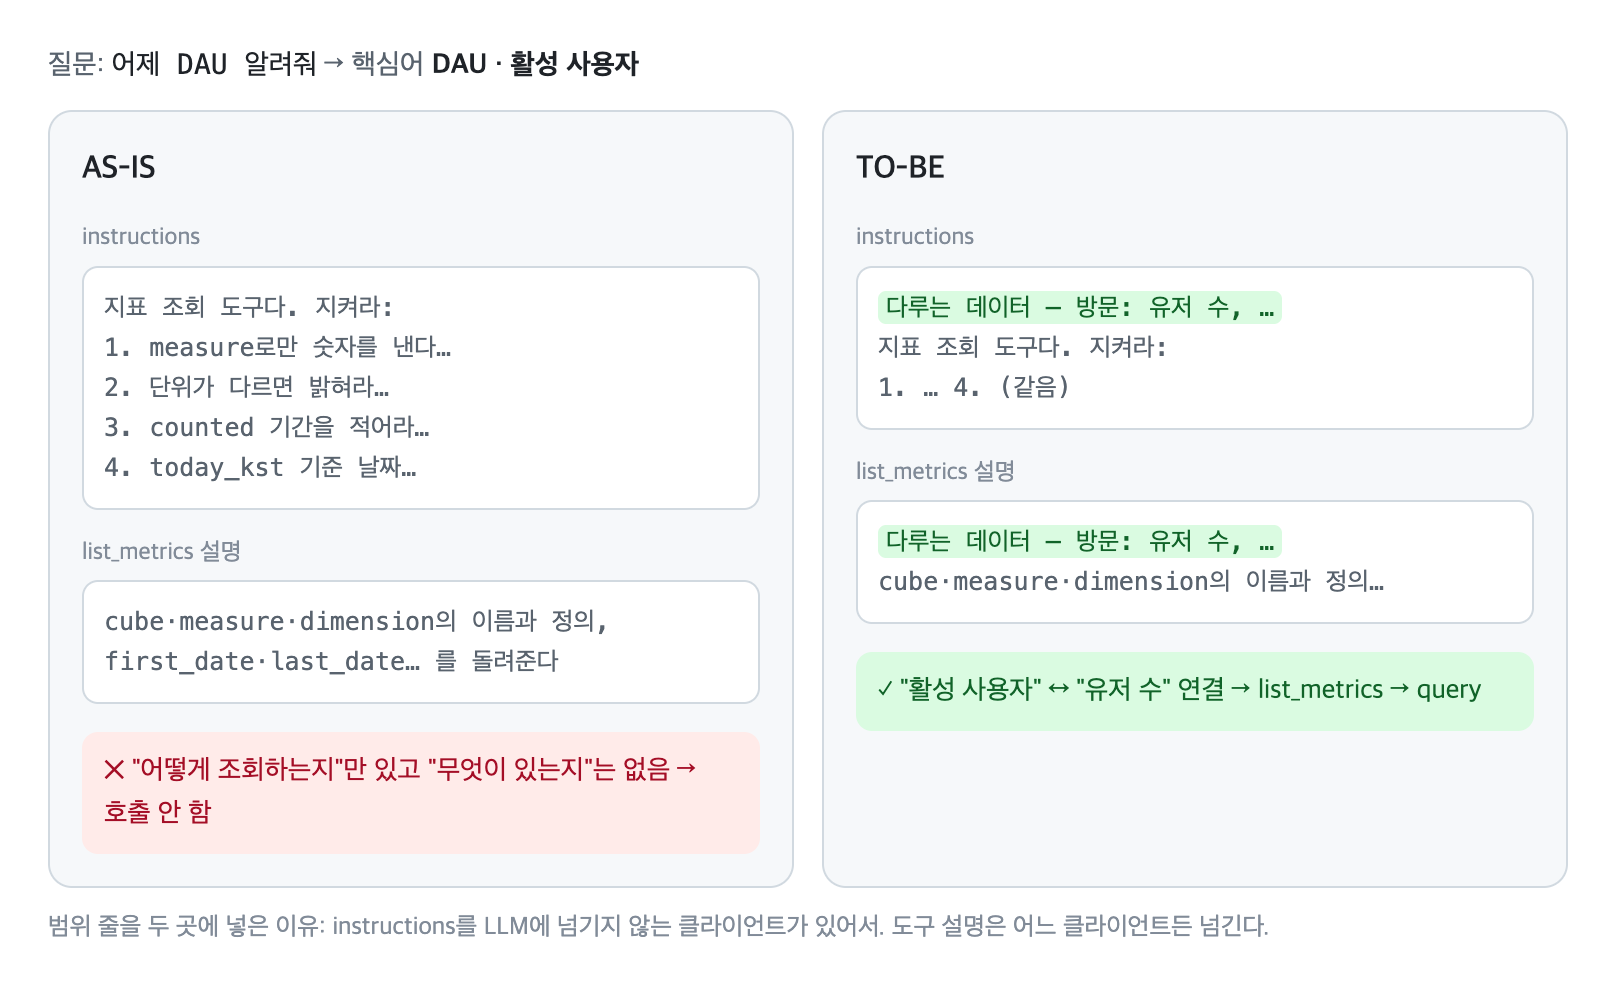
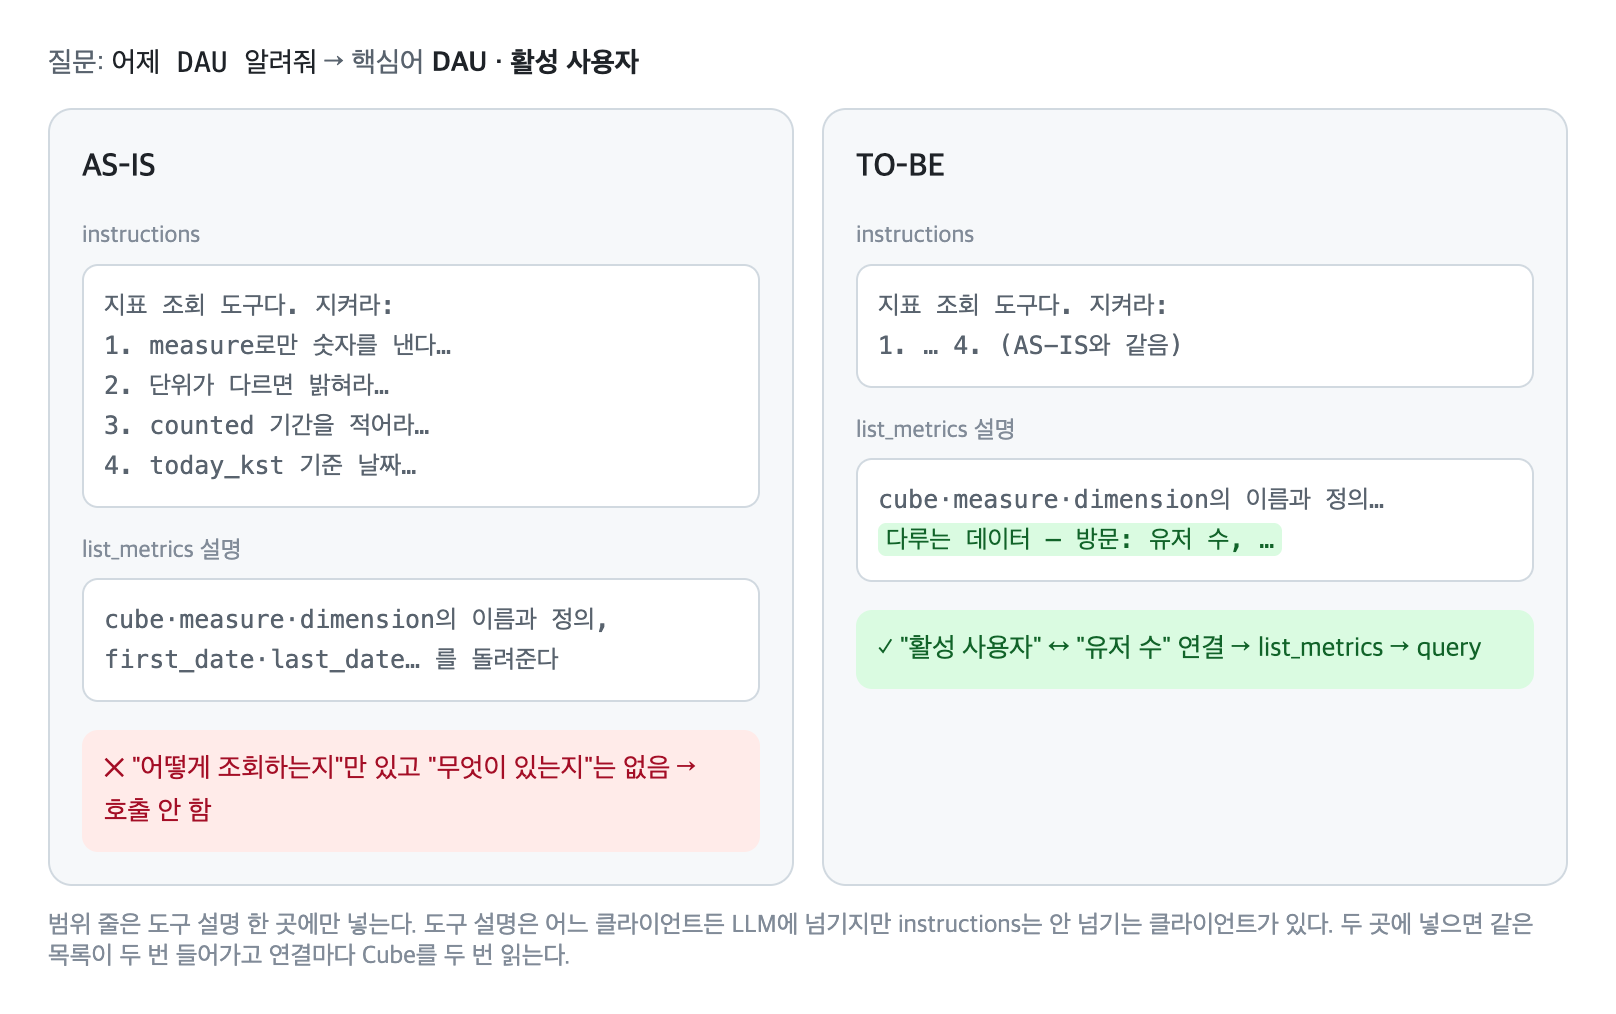
docs: 데이터 범위를 도구 설명 한 곳에만 싣도록 바뀐 설계를 반영한다

diff --git a/case-studies/2026-11-mcp-data-scope/README.md b/case-studies/2026-11-mcp-data-scope/README.md
@@ -22,7 +22,7 @@
 | 증상 | 지표를 물으면 MCP 도구를 안 부르고 데이터 소스를 되물음 |
 | 잘못 짚은 첫 대응 | 봇 쪽 지침(SOUL.md)에 조회 절차를 길게 적음 → 서버 지침과 중복, 문구가 이미 어긋남 |
 | 원인 | MCP 클라이언트는 서버의 `instructions`와 도구 `description`만 보고 호출 여부를 정함. 거기에 데이터 범위가 없었음. 지표 정의(Cube description)는 도구를 부른 **뒤에야** 읽힘 |
-| 해결 | `initialize`·`tools/list` 요청마다 서버가 Cube `/meta`를 읽어 cube·measure 제목 목록을 소개 글 앞에 붙임 |
+| 해결 | `tools/list` 요청마다 서버가 Cube `/meta`를 읽어 cube·measure 제목 목록을 `list_metrics` 설명에 붙임 |
 
 ## 설계 판단
 
@@ -30,11 +30,11 @@
 |---|---|
 | 범위를 코드에 고정하지 않고 Cube에서 자동 생성 | 손으로 적으면 지표가 추가·변경될 때마다 낡음 |
 | 지표 **이름만** 싣고 정의는 뺌 | 소개 글이 길어지고 정의가 두 곳에 생김 — 정의는 `list_metrics`에서 |
-| `instructions`와 `list_metrics` 설명 두 곳에 | `instructions`를 LLM에 넘기지 않는 클라이언트도 있음 |
+| `list_metrics` 설명 한 곳에만 | 도구 설명은 모든 클라이언트가 LLM에 넘기지만 `instructions`는 안 넘기는 클라이언트도 있음. 두 곳에 실으면 목록이 두 번 들어가고 Cube를 두 번 읽음 |
 | Cube 장애 시 범위 없이 예전 소개로 응답 | 서버 소개가 Cube 때문에 실패하면 안 됨 — 경고 로그만 남김 |
 | 봇 쪽 지침은 역할만 남김 | 모든 클라이언트가 읽는 곳(서버)에 정보를 둬야 한 곳만 고침 |
 
-**트레이드오프:** 연결마다 Cube 호출이 1회 늘고, 그 호출에 타임아웃이 없음 → Cube가 느리면 연결도 느려짐.
+**트레이드오프:** `tools/list`마다 Cube 호출이 1회 늘고, 그 호출에 타임아웃이 없음 → Cube가 느리면 도구 목록도 늦게 옴.
 
 ## 결과
 

diff --git a/2026/11/16-hermes-slack-bot-mcp-troubleshooting.md b/2026/11/16-hermes-slack-bot-mcp-troubleshooting.md
@@ -195,18 +195,18 @@ flowchart TB
 |---|---|---|
 | Cube | 어떤 지표가 있는지 앎 (cube·measure 제목) | 소장 목록 |
 | MCP 서버 | Cube에 물어 소개 글에 옮겨 적음 | 팻말 쓰는 사람 |
-| 팻말 | `instructions` + `list_metrics` 설명 | 문 앞 안내판 |
+| 팻말 | `list_metrics` 설명 | 문 앞 안내판 |
 
 ```mermaid
 sequenceDiagram
     participant H as Hermes
     participant M as MCP 서버
     participant C as Cube
-    H->>M: initialize / tools/list
+    H->>M: tools/list
     M->>C: /meta (어떤 지표 있어?)
     C-->>M: cube·measure 제목
-    Note over M: 목록 + 기존 지침 조립
-    M-->>H: instructions / description
+    Note over M: 기존 설명 + 목록 조립
+    M-->>H: list_metrics description
     Note over H: "DAU 여기 있네" → list_metrics 호출
 ```
 
@@ -216,9 +216,9 @@ sequenceDiagram
 |---|---|
 | 자동 생성 | 코드에 손으로 적으면 Cube 지표가 바뀔 때마다 낡음 → 매번 `/meta`에서 읽음 |
 | 이름만 | 지표 **정의**(`description`)는 팻말에 안 넣음 → `list_metrics` 안에서 읽힘 (길이·중복 방지) |
-| 두 군데 | `instructions`를 무시하는 클라이언트도 있음 → 도구 설명에도 같은 목록 |
+| 한 곳만 | 도구 설명은 모든 클라이언트가 넘김, `instructions`는 안 넘기는 클라이언트도 있음 → 도구 설명에만. 두 곳이면 목록 중복 + Cube 2회 |
 | 장애 시 | Cube가 죽으면 목록 없이 예전 소개 + 경고 로그 (서버는 계속 응답) |
-| 비용 | 연결마다 `/meta` 1회 추가, 타임아웃 없음 → Cube가 느리면 연결도 느림 |
+| 비용 | `tools/list`마다 `/meta` 1회 추가, 타임아웃 없음 → Cube가 느리면 도구 목록도 느림 |
 
 > 교훈: MCP 서버의 "자기소개"는 규약에 정해진 두 칸(`instructions`, 도구 `description`)뿐. 봇이 알아야 할 건 **여기에** 적어야 닿는다
 
